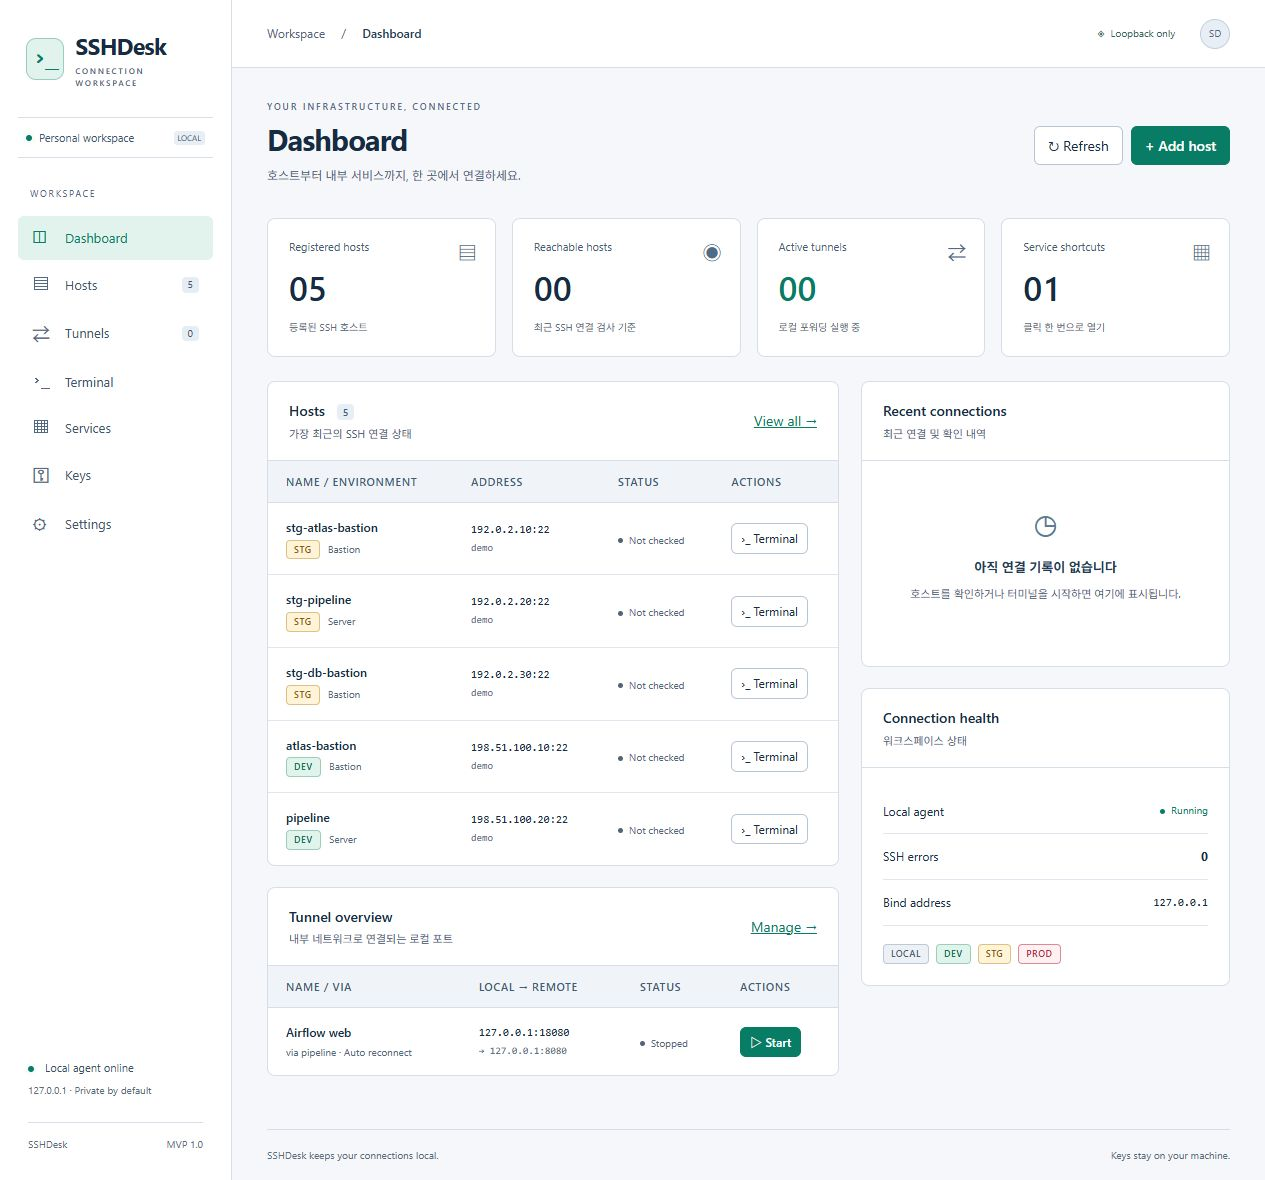
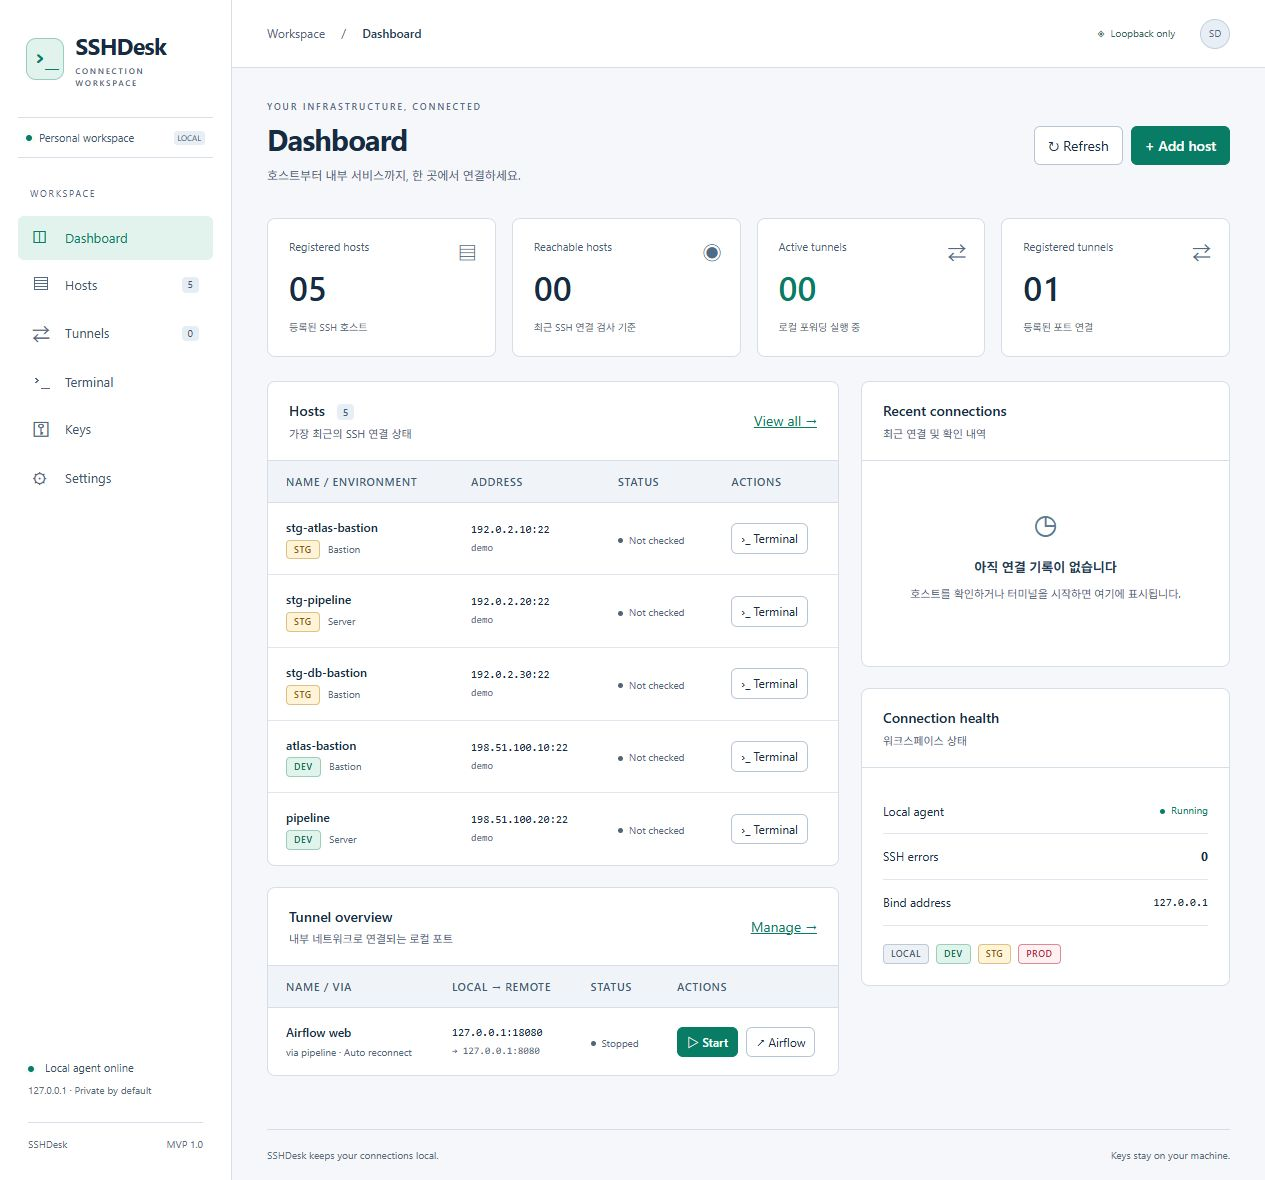
Merge Services into Tunnels with preserved web shortcuts

diff --git a/web/static/app.js b/web/static/app.js
@@ -36,7 +36,6 @@ const pages = {
   hosts: ["Hosts", "Bastion과 내부 서버를 등록하고, 경유 연결을 관리하세요."],
   tunnels: ["Tunnels", "복잡한 포트 포워딩을 클릭 한 번으로 시작하세요."],
   terminal: ["Terminal", "브라우저에서 바로 연결하는 SSH 터미널."],
-  services: ["Services", "터널 연결부터 서비스 열기까지 한 번에."],
   keys: ["Keys", "키는 내 컴퓨터에. SSHDesk에는 파일 경로만 저장됩니다."],
   settings: ["Settings", "로컬 워크스페이스와 SSH 설정을 관리하세요."],
 };
@@ -93,7 +92,7 @@ async function refresh(render = true) {
 }
 function navigate() {
   const hash = location.hash.slice(1).split("/");
-  current = pages[hash[0]] ? hash[0] : "dashboard";
+  current = hash[0] === "services" ? "tunnels" : (pages[hash[0]] ? hash[0] : "dashboard");
   filter = "";
   envFilter = "";
   renderPage();
@@ -112,7 +111,7 @@ function renderPage() {
   $("#content").hidden = current === "terminal" && !!terminalHost;
   const actions = $("#page-actions");
   actions.innerHTML = "";
-  if (["hosts", "tunnels", "services", "keys"].includes(current)) {
+  if (["hosts", "tunnels", "keys"].includes(current)) {
     if (current === "hosts")
       actions.innerHTML = button("↓ Import SSH config", "import");
     actions.innerHTML += button(
@@ -154,7 +153,7 @@ function dashboard() {
     ["Registered hosts", state.hosts.length, "등록된 SSH 호스트", "▤"],
     ["Reachable hosts", reachable, "최근 SSH 연결 검사 기준", "◉"],
     ["Active tunnels", running, "로컬 포워딩 실행 중", "⇄"],
-    ["Service shortcuts", state.services.length, "클릭 한 번으로 열기", "▦"],
+    ["Registered tunnels", state.tunnels.length, "등록된 포트 연결", "⇄"],
   ];
   $("#content").innerHTML =
     `<div class="cards">${metrics.map((m, i) => `<div class="metric ${i === 2 ? "active" : ""}"><div class="metric-label">${m[0]}</div><span class="metric-icon">${m[3]}</span><div class="metric-number">${m[1].toString().padStart(2, "0")}</div><small>${m[2]}</small></div>`).join("")}</div>` +
@@ -180,7 +179,7 @@ function dashboard() {
     )}${panel("Connection health", "워크스페이스 상태", `<div class="panel-body"><div class="health-row">Local agent ${status("running")}</div><div class="health-row">SSH errors <strong class="${errors.length ? "error" : ""}">${state.history.filter((h) => h.status === "error").length}</strong></div><div class="health-row">Bind address <span class="mono">127.0.0.1</span></div>${errors.map((h) => `<p class="error wrap">${esc(h.host_name)} · ${esc(h.error)}</p>`).join("")}<div class="env-legend">${["LOCAL", "DEV", "STG", "PROD"].map(env).join("")}</div></div>`)}</div></div>`;
 }
 function toolbar() {
-  return `<div class="toolbar"><input id="search" aria-label="검색" placeholder="이름이나 주소로 검색…" value="${esc(filter)}">${current === "hosts" || current === "services" ? `<select id="env-filter" aria-label="환경 필터"><option value="">All environments</option>${["LOCAL", "DEV", "STG", "PROD"].map((e) => `<option ${envFilter === e ? "selected" : ""}>${e}</option>`).join("")}</select>` : ""}<span class="muted">${state[current].length} ${current}</span></div>`;
+  return `<div class="toolbar"><input id="search" aria-label="검색" placeholder="이름이나 주소로 검색…" value="${esc(filter)}">${current === "hosts" ? `<select id="env-filter" aria-label="환경 필터"><option value="">All environments</option>${["LOCAL", "DEV", "STG", "PROD"].map((e) => `<option ${envFilter === e ? "selected" : ""}>${e}</option>`).join("")}</select>` : ""}<span class="muted">${state[current].length} ${current}</span></div>`;
 }
 function filtered() {
   return state[current].filter(
@@ -195,12 +194,9 @@ function collection() {
   if (current === "hosts") body = hostTable(items);
   if (current === "tunnels") body = tunnelTable(items);
   if (current === "keys") body = keyTable(items);
-  if (current === "services") body = services(items);
   $("#content").innerHTML =
     toolbar() +
-    (current === "services"
-      ? body
-      : `<section class="panel">${body}</section>`);
+    `<section class="panel">${body}</section>`;
   $("#search").oninput = (e) => {
     const pos = e.target.selectionStart;
     filter = e.target.value;
@@ -235,7 +231,9 @@ function tunnelTable(items, compact = false) {
   return `<div class="table-wrap"><table><thead><tr><th>Name / Via</th><th>Local → Remote</th><th>Status</th><th>Actions</th></tr></thead><tbody>${items
     .map((t) => {
       const v = ts(t.id);
-      return `<tr><td class="name-cell">${esc(t.name)}<span class="subline">via ${esc(hostName(t.host_id))}${t.auto_reconnect ? " · Auto reconnect" : ""}</span></td><td class="mono">127.0.0.1:${t.local_port}<span class="subline">→ ${esc(t.remote_host)}:${t.remote_port}</span></td><td>${status(v.state)}${v.started_at ? `<span class="subline">${esc(new Date(v.started_at).toLocaleTimeString())} · ${v.connections || 0} streams</span>` : ""}${v.last_error ? `<span class="subline error wrap" title="${esc(v.last_error)}">${esc(v.last_error)}</span>` : ""}</td><td><div class="actions">${button(["running", "connecting", "reconnecting"].includes(v.state) ? "■ Stop" : "▷ Start", ["running", "connecting", "reconnecting"].includes(v.state) ? "stop" : "start", t.id, "tunnels", "small " + (v.state === "running" ? "" : "primary"))}${compact ? "" : button("Edit", "edit", t.id, "tunnels", "small ghost") + button("Delete", "delete", t.id, "tunnels", "small ghost danger")}</div></td></tr>`;
+      const links = state.services.filter((s) => s.tunnel_id === t.id);
+      const webButtons = links.map((s) => button("↗ " + esc(s.name), "open", s.id, "services", "small")).join("");
+      return `<tr><td class="name-cell">${esc(t.name)}<span class="subline">via ${esc(hostName(t.host_id))}${t.auto_reconnect ? " · Auto reconnect" : ""}</span></td><td class="mono">127.0.0.1:${t.local_port}<span class="subline">→ ${esc(t.remote_host)}:${t.remote_port}</span></td><td>${status(v.state)}${v.started_at ? `<span class="subline">${esc(new Date(v.started_at).toLocaleTimeString())} · ${v.connections || 0} streams</span>` : ""}${v.last_error ? `<span class="subline error wrap" title="${esc(v.last_error)}">${esc(v.last_error)}</span>` : ""}</td><td><div class="actions">${button(["running", "connecting", "reconnecting"].includes(v.state) ? "■ Stop" : "▷ Start", ["running", "connecting", "reconnecting"].includes(v.state) ? "stop" : "start", t.id, "tunnels", "small " + (v.state === "running" ? "" : "primary"))}${webButtons}${compact ? "" : button("Edit", "edit", t.id, "tunnels", "small ghost") + button("Delete", "delete", t.id, "tunnels", "small ghost danger")}</div></td></tr>`;
     })
     .join("")}</tbody></table></div>`;
 }
@@ -248,11 +246,6 @@ function keyTable(items) {
       button("+ Add key", "add", "", "keys"),
     );
   return `<div class="table-wrap"><table><thead><tr><th>Name</th><th>File path</th><th>Storage</th><th>Actions</th></tr></thead><tbody>${items.map((k) => `<tr><td class="name-cell">${esc(k.name)}</td><td class="mono">${esc(k.path)}</td><td><span class="status connected">Path only</span></td><td><div class="actions">${button("Validate", "check", k.id, "keys", "small")}${button("Edit", "edit", k.id, "keys", "small ghost")}${button("Delete", "delete", k.id, "keys", "small ghost danger")}</div></td></tr>`).join("")}</tbody></table></div>`;
-}
-function services(items) {
-  if (!items.length)
-    return `<section class="panel">${empty("▦", "서비스 바로가기를 추가하세요", "Grafana, Jenkins, 내부 API를 터널과 함께 등록하세요.", button("+ Add service", "add", "", "services"))}</section>`;
-  return `<div class="service-grid">${items.map((s) => `<article class="panel service-card"><div class="service-icon">▦</div><h2>${esc(s.name)} ${env(s.environment)}</h2><p>${esc(s.description || "Internal service")}</p><span class="mono">${esc(s.url)}</span><div class="muted">⇄ ${esc(tunnelName(s.tunnel_id))} &nbsp; ${status(ts(s.tunnel_id).state)}</div><div class="actions">${button("↗ Open service", "open", s.id, "services", "primary")}${button("Edit", "edit", s.id, "services", "small ghost")}${button("Delete", "delete", s.id, "services", "small danger ghost")}</div></article>`).join("")}</div>`;
 }
 function settings() {
   const v = state.settings;
@@ -295,16 +288,9 @@ const schemas = {
     ["host_id", "SSH host", "hosts-required"],
     ["local_host", "Local host", "text", "127.0.0.1"],
     ["local_port", "Local port", "number", 18080],
-    ["remote_host", "Remote host", "text"],
+    ["remote_host", "Remote host", "text", "127.0.0.1"],
     ["remote_port", "Remote port", "number", 8080],
     ["auto_reconnect", "Auto reconnect", "checkbox", true],
-    ["description", "Description", "textarea"],
-  ],
-  services: [
-    ["name", "Name", "text"],
-    ["environment", "Environment", "env"],
-    ["tunnel_id", "터널 또는 SSH 호스트", "tunnels"],
-    ["url", "URL", "url", "http://127.0.0.1:18080"],
     ["description", "Description", "textarea"],
   ],
   keys: [
@@ -353,10 +339,6 @@ function editor(kind, id = "") {
               "",
               type === "hosts" ? "Direct connection (none)" : "Select…",
             ]);
-          if (kind === "services" && type === "tunnels") {
-            options = options.map(([v, t]) => [v, v ? `기존 터널 · ${t}` : "선택하세요"]);
-            options.push(...state.hosts.map((h) => [`host:${h.id}`, `새 터널 · ${h.name}`]));
-          }
           input = `<select name="${name}" ${type === "hosts" ? "" : "required"}>${options.map(([v, t]) => `<option value="${esc(v)}" ${String(value || (type === "env" ? "DEV" : "")) === String(v) ? "selected" : ""}>${esc(t)}</option>`).join("")}</select>`;
         } else if (type === "textarea")
           input = `<textarea name="${name}" maxlength="2000">${esc(value)}</textarea>`;
@@ -374,30 +356,25 @@ function editor(kind, id = "") {
       : kind === "keys"
         ? '<p class="note full">로컬 파일 경로만 저장합니다. 암호화된 private key의 passphrase 입력은 향후 지원합니다.</p>'
         : "");
-  if (kind === "services") {
-    const extra = document.createElement("div");
-    extra.className = "full form-grid";
-    extra.hidden = true;
-    extra.innerHTML = `<label>Local port<input name="service_local_port" type="number" min="1" max="65535" value="18080"></label>
-      <label>대상 포트<input name="service_remote_port" type="number" min="1" max="65535" value="8080"></label>
-      <label class="full">대상 주소 (선택한 SSH 호스트 기준)<input name="service_remote_host" value="127.0.0.1"></label>`;
-    $("#editor-fields").append(extra);
-    const select = $('#editor-fields select[name="tunnel_id"]');
-    const url = $('#editor-fields input[name="url"]');
-    const local = extra.querySelector('[name="service_local_port"]');
-    const update = () => {
-      const create = select.value.startsWith("host:");
-      extra.hidden = !create;
-      extra.querySelectorAll("input").forEach((input) => { input.disabled = !create; input.required = create; });
-      if (create) url.value = `http://127.0.0.1:${local.value}`;
-      else {
-        const tunnel = state.tunnels.find((t) => t.id === select.value);
-        if (tunnel) url.value = `http://127.0.0.1:${tunnel.local_port}`;
-      }
+  if (kind === "tunnels") {
+    const links = state.services.filter((s) => s.tunnel_id === id);
+    const block = document.createElement("div");
+    block.className = "full";
+    block.innerHTML = `<h3>웹 바로가기 (선택)</h3><p class="muted">웹 서비스는 URL을 등록하고, DB 연결은 비워두세요. 기존 URL을 비우면 바로가기를 삭제합니다.</p>`;
+    const addRow = (link = {}) => {
+      const row = document.createElement("div");
+      row.className = "tunnel-link-row";
+      row.dataset.id = link.id || "";
+      row.innerHTML = `<label>표시 이름<input data-link-name value="${esc(link.name || "")}" placeholder="예: Airflow" maxlength="160"></label><label>웹 URL<input data-link-url type="url" value="${esc(link.url || "")}" placeholder="http://127.0.0.1:18080" maxlength="1024"></label>`;
+      block.append(row);
     };
-    extra.querySelectorAll("input").forEach((input) => { input.disabled = true; });
-    select.onchange = update;
-    local.oninput = () => { url.value = `http://127.0.0.1:${local.value}`; };
+    links.forEach(addRow);
+    addRow();
+    const add = document.createElement("button");
+    add.type = "button"; add.textContent = "+ 웹 바로가기";
+    add.onclick = () => addRow();
+    block.append(add);
+    $("#editor-fields").append(block);
   }
   if (kind === "keys") {
     const picker = $("#pick-key-file");
@@ -428,17 +405,12 @@ $("#editor-form").onsubmit = async (e) => {
   submit.disabled = true;
   const data = Object.fromEntries(new FormData(e.target));
   data.id = editing.id;
-  if (editing.kind === "services" && data.tunnel_id.startsWith("host:")) {
-    data.new_tunnel = {
-      host_id: data.tunnel_id.slice(5),
-      local_host: "127.0.0.1", local_port: Number(data.service_local_port),
-      remote_host: data.service_remote_host, remote_port: Number(data.service_remote_port),
-      auto_reconnect: true,
-    };
-    data.tunnel_id = "";
-    delete data.service_local_port;
-    delete data.service_remote_host;
-    delete data.service_remote_port;
+  if (editing.kind === "tunnels") {
+    data.web_links = [...document.querySelectorAll(".tunnel-link-row")].map((row) => ({
+      id: row.dataset.id,
+      name: row.querySelector("[data-link-name]").value.trim() || data.name,
+      url: row.querySelector("[data-link-url]").value.trim(),
+    })).filter((link) => link.url);
   }
   for (const [name, , type] of schemas[editing.kind]) {
     if (type === "number") data[name] = Number(data[name]);
@@ -611,7 +583,7 @@ document.addEventListener("click", async (e) => {
     if (action === "delete") {
       if (
         !confirm(
-          "삭제하시겠습니까? 다른 항목에서 사용 중이면 삭제할 수 없습니다.",
+          kind === "tunnels" ? "터널과 연결된 웹 바로가기를 함께 삭제하시겠습니까?" : "삭제하시겠습니까? 다른 항목에서 사용 중이면 삭제할 수 없습니다.",
         )
       )
         return;

diff --git a/web/templates/index.html b/web/templates/index.html
@@ -16,7 +16,6 @@
    <a href="#hosts" data-page="hosts"><span>▤</span>Hosts<span class="nav-count" id="host-count">0</span></a>
    <a href="#tunnels" data-page="tunnels"><span>⇄</span>Tunnels<span class="nav-count" id="tunnel-count">0</span></a>
    <a href="#terminal" data-page="terminal"><span>›_</span>Terminal</a>
-   <a href="#services" data-page="services"><span>▦</span>Services</a>
    <a href="#keys" data-page="keys"><span>⚿</span>Keys</a>
    <a href="#settings" data-page="settings"><span>⚙</span>Settings</a>
   </nav>

diff --git a/web/static/app.css b/web/static/app.css
@@ -18,6 +18,7 @@
 .backup-controls > input[hidden] { display: none; }
 .backup-import-actions { display: flex; gap: 8px; flex-wrap: wrap; margin-top: 12px; }
 .form-grid[hidden] { display: none; }
+.tunnel-link-row { display: grid; grid-template-columns: 1fr 2fr; gap: 10px; margin-bottom: 12px; }
 * {
   box-sizing: border-box;
 }

diff --git a/internal/web/tunnel_links_test.go b/internal/web/tunnel_links_test.go
@@ -1,0 +1,48 @@
+package web
+
+import (
+	"sshdesk/internal/model"
+	"testing"
+)
+
+func TestTunnelWebLinks(t *testing.T) {
+	app, ts, _ := setup(t)
+	payload := map[string]any{"name": "Web tunnel", "host_id": "host", "local_host": "127.0.0.1", "local_port": 18080, "remote_host": "127.0.0.1", "remote_port": 8080,
+		"web_links": []model.Service{{Name: "Portal", URL: "http://127.0.0.1:18080"}, {Name: "Admin", URL: "http://127.0.0.1:18080/admin"}}}
+	code, body := request(t, app, ts, "POST", "/api/tunnels", payload)
+	if code != 200 {
+		t.Fatalf("save %d %s", code, body)
+	}
+	state, _ := app.Store.Snapshot()
+	if len(state.Tunnels) != 1 || len(state.Services) != 2 {
+		t.Fatal("missing links")
+	}
+	id := state.Tunnels[0].ID
+	if app.Tunnels.Active(id) {
+		t.Fatal("save connected")
+	}
+	payload["id"] = id
+	payload["web_links"] = []model.Service{{ID: state.Services[0].ID, Name: "Changed", URL: "http://127.0.0.1:19090"}}
+	code, _ = request(t, app, ts, "POST", "/api/tunnels", payload)
+	if code == 200 {
+		t.Fatal("accepted wrong URL port")
+	}
+	state, _ = app.Store.Snapshot()
+	if len(state.Services) != 2 || state.Services[0].Name != "Portal" {
+		t.Fatal("rollback failed")
+	}
+	delete(payload, "web_links")
+	code, _ = request(t, app, ts, "POST", "/api/tunnels", payload)
+	if code != 200 {
+		t.Fatal("legacy tunnel update failed")
+	}
+	state, _ = app.Store.Snapshot()
+	if len(state.Services) != 2 {
+		t.Fatal("legacy update lost links")
+	}
+	code, _ = request(t, app, ts, "DELETE", "/api/tunnels/"+id, nil)
+	state, _ = app.Store.Snapshot()
+	if code != 200 || len(state.Services) != 0 || len(state.Tunnels) != 0 {
+		t.Fatal("delete failed")
+	}
+}

diff --git a/internal/web/server.go b/internal/web/server.go
@@ -185,10 +185,14 @@ func (s *Server) save(w http.ResponseWriter, r *http.Request) {
 			state.Keys, e = database.Replace(state.Keys, old, v, func(v model.Key) string { return v.ID })
 			return e
 		case "tunnels":
-			var v model.Tunnel
-			if e = decode(r, &v); e != nil {
+			var req struct {
+				model.Tunnel
+				WebLinks *[]model.Service `json:"web_links,omitempty"`
+			}
+			if e = decode(r, &req); e != nil {
 				return e
 			}
+			v := req.Tunnel
 			if s.Tunnels.Active(v.ID) {
 				return errors.New("편집하기 전에 터널을 Stop하세요")
 			}
@@ -197,6 +201,9 @@ func (s *Server) save(w http.ResponseWriter, r *http.Request) {
 				v.ID = database.ID()
 			}
 			state.Tunnels, e = database.Replace(state.Tunnels, old, v, func(v model.Tunnel) string { return v.ID })
+			if e == nil && req.WebLinks != nil {
+				e = replaceTunnelLinks(state, v, *req.WebLinks)
+			}
 		case "services":
 			var req struct {
 				model.Service
@@ -261,6 +268,15 @@ func (s *Server) delete(w http.ResponseWriter, r *http.Request) {
 				return errors.New("삭제하기 전에 터널을 Stop하세요")
 			}
 			state.Tunnels, e = database.Delete(state.Tunnels, id, func(v model.Tunnel) string { return v.ID })
+			if e == nil {
+				links := []model.Service{}
+				for _, link := range state.Services {
+					if link.TunnelID != id {
+						links = append(links, link)
+					}
+				}
+				state.Services = links
+			}
 		case "services":
 			state.Services, e = database.Delete(state.Services, id, func(v model.Service) string { return v.ID })
 		default:

diff --git a/internal/web/tunnel_links.go b/internal/web/tunnel_links.go
@@ -1,0 +1,47 @@
+package web
+
+import (
+	"errors"
+	"sshdesk/internal/database"
+	"sshdesk/internal/model"
+)
+
+// Keep the existing service records for backward-compatible databases and backups.
+// The UI manages these records exclusively as tunnel web links.
+func replaceTunnelLinks(state *model.State, tunnel model.Tunnel, links []model.Service) error {
+	existing := map[string]model.Service{}
+	result := []model.Service{}
+	for _, link := range state.Services {
+		if link.TunnelID == tunnel.ID {
+			existing[link.ID] = link
+		} else {
+			result = append(result, link)
+		}
+	}
+	host, err := state.Host(tunnel.HostID)
+	if err != nil {
+		return err
+	}
+	seen := map[string]bool{}
+	for _, link := range links {
+		if link.ID != "" {
+			old, ok := existing[link.ID]
+			if !ok || seen[link.ID] {
+				return errors.New("잘못된 웹 바로가기 ID입니다")
+			}
+			link.Environment = old.Environment
+			link.Description = old.Description
+		} else {
+			link.ID = database.ID()
+			link.Environment = host.Environment
+		}
+		seen[link.ID] = true
+		link.TunnelID = tunnel.ID
+		if err := model.ValidateService(link, tunnel); err != nil {
+			return err
+		}
+		result = append(result, link)
+	}
+	state.Services = result
+	return nil
+}

diff --git a/AGENTS.md b/AGENTS.md
@@ -6,8 +6,7 @@
 - Key registration supports manual paths and a native Windows file picker. Selection returns only the local path, cancellation preserves the field, and saving retains key validation; never upload or copy key contents.
 - Keep OS-specific browser launching and data directory selection in internal/platform. Use interfaces for SSH and tunnel tests.
 - Test against isolated local SSH servers; do not connect to real company hosts without an explicit request. Run go test ./..., go vet ./..., Linux race tests and Windows build/smoke checks for connection changes.
-- Preserve the seven MVP menus: Dashboard, Hosts, Tunnels, Terminal, Services, Keys, Settings. Do not add SFTP, logs or Docker management to this MVP.
-- Services can select any registered SSH host regardless of connection status and atomically create a tunnel using explicit destination/local ports, or reuse an existing tunnel. Saving must never connect; Open service starts the tunnel.
+- Keep six menus: Dashboard, Hosts, Tunnels, Terminal, Keys, Settings. Services is merged into Tunnels; manage optional named web URLs in the tunnel editor and open them from tunnel rows. Preserve all legacy service records and backup compatibility. Saving must never connect; opening a web link starts/checks its tunnel. Tunnel deletion also removes its web links. Do not add SFTP, logs or Docker management.
 - Database migrations use ordinary indexes; integrity and reference validation run under the store mutation lock, following the parent workspace schema policy.
 - Configuration and SSH files stay local. Export/import must never include key bytes, passwords, SSH file contents or history; exports contain sensitive connection metadata and must be excluded from Git. Import previews additions, preserves conflicting existing records, applies atomically, and never starts connections.
 - Before publishing to the project Git remote, inspect the staged file list and scan for credentials, private keys, local databases, exported configurations, internal endpoints and personal paths. Publish source and sanitized documentation only.

diff --git a/docs/verification.md b/docs/verification.md
@@ -13,6 +13,8 @@
 
 ## 자동 검증
 
+Tunnels 통합: Services 메뉴를 제거하고 기존 서비스 레코드를 터널의 웹 바로가기로 표시합니다. 전체 Go 테스트·vet·race 검사와 Windows 교차 빌드가 통과했습니다. 여러 바로가기 저장, URL 포트 검증 실패 시 롤백, 기존 API 수정 시 바로가기 보존, 터널 삭제 시 관련 바로가기 삭제를 테스트했습니다. 격리된 가상 데이터 화면에서 기존 바로가기 표시·편집·저장을 확인했습니다. 새 Windows 실행파일의 smoke 실행은 Windows 애플리케이션 제어 정책에 차단되었습니다. 실제 사용 중인 터널은 중단하지 않았습니다.
+
 서비스의 호스트 직접 선택 추가: 전체 Go 테스트, vet, race 테스트, JavaScript 문법 검사 및 Windows 빌드 성공. 터널·서비스 동시 저장, 저장 시 미연결, 잘못된 URL 포트의 원자적 롤백, 없는 호스트 거부를 검증했습니다. 새 Windows 실행파일의 격리된 smoke 실행은 도구 정책에 차단되어 완료하지 못했습니다. 이번 빌드는 `dist/sshdesk.exe`에 있으며 위 루트 실행파일 해시와 별개입니다.
 
 | 검증 | 결과 |
